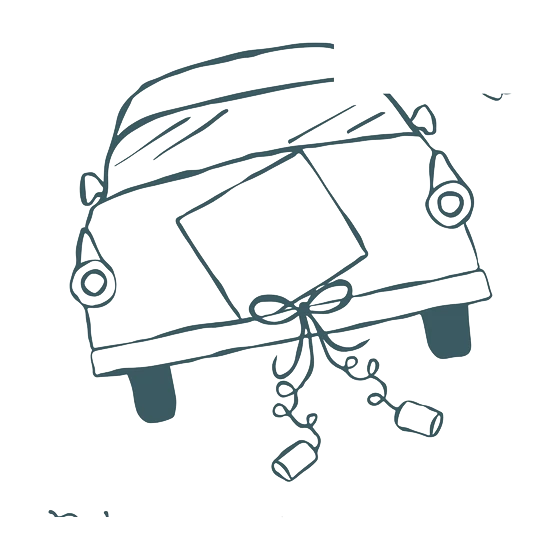
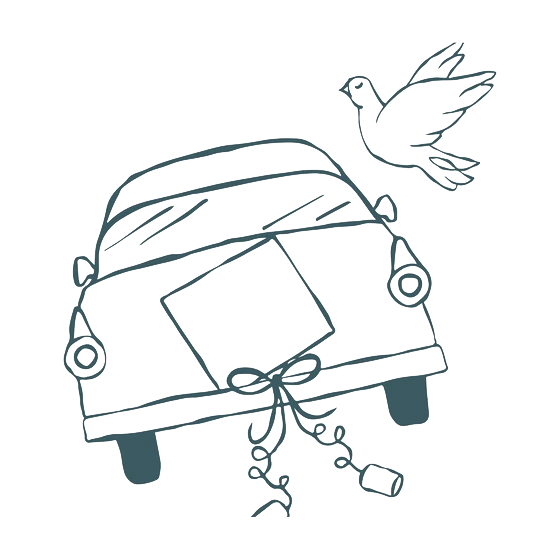
Coche completo con la paloma y reglas de legibilidad tipográfica
- El icono de los autobuses recupera la paloma y el coche entero; solo se borra
  la firma de la lámina que quedaba debajo de las ruedas.
- Todo el contenido de "Datos de Interés" pasa a Italiana: en cursiva y a
  tamaño de tarjeta no había quien lo leyera. Igual el aviso del formulario.
- Suelo de 28px para cualquier texto en cursiva, aplicado a las tres vistas.
  Dos se escapaban del barrido: uno heredaba la familia del contenedor sin
  declararla y otro arrastraba dos clases de tamaño en conflicto.

Changed region(s): [[0.0911, 0.0607, 0.9107, 0.9411], [0.3339, 0.0607, 0.6071, 0.1214], [0.0911, 0.9107, 0.1214, 0.9411]]

diff --git a/app/page.tsx b/app/page.tsx
@@ -681,7 +681,7 @@ export default function Home() {
                       {place.name}
                     </h3>
 
-                    <p className="font-serif text-muted text-[24px] italic mb-6 leading-relaxed text-center">
+                    <p className="font-serif text-muted text-[28px] italic mb-6 leading-relaxed text-center">
                       {place.address}
                     </p>
 
@@ -764,7 +764,7 @@ export default function Home() {
                 </p>
               ) : (
                 <>
-                  <p className="font-serif text-muted text-[26px] leading-none mb-6">{wedding.countdown.lead}</p>
+                  <p className="font-serif text-muted text-[28px] leading-none mb-6">{wedding.countdown.lead}</p>
                   <div className="grid grid-cols-2 sm:grid-cols-4 gap-y-6 gap-x-2">
                     {([
                       ['days', wedding.countdown.labels.days],
@@ -879,7 +879,7 @@ export default function Home() {
                 {wedding.itinerary.title}
               </h2>
               <p
-                className="font-serif text-muted mt-2 italic text-[24px] leading-snug"
+                className="font-serif text-muted mt-2 italic text-[28px] leading-snug"
               >
                 {wedding.itinerary.subtitle}
               </p>
@@ -987,7 +987,7 @@ export default function Home() {
                   {wedding.music.title}
                 </h3>
 
-                <p className="text-muted text-[15px] italic leading-relaxed max-w-lg mx-auto mb-10">
+                <p className="font-serif text-muted text-[28px] italic leading-relaxed max-w-lg mx-auto mb-10">
                   {wedding.music.description}
                 </p>
 
@@ -1090,7 +1090,7 @@ export default function Home() {
                   hidden: { opacity: 0, y: 20 },
                   visible: { opacity: 1, y: 0, transition: { duration: 0.8 } }
                 }}
-                className="font-serif text-[26px] text-white/95 italic leading-relaxed max-w-xl mx-auto mb-2"
+                className="font-serif text-[28px] text-white/95 italic leading-relaxed max-w-xl mx-auto mb-2"
               >
                 {wedding.gift.description}
               </motion.p>
@@ -1100,7 +1100,7 @@ export default function Home() {
                   hidden: { opacity: 0, y: 20 },
                   visible: { opacity: 1, y: 0, transition: { duration: 0.8 } }
                 }}
-                className="font-serif text-[26px] text-white leading-relaxed max-w-lg mx-auto mb-1"
+                className="font-serif text-[28px] text-white leading-relaxed max-w-lg mx-auto mb-1"
               >
                 {wedding.gift.invitation}
               </motion.p>
@@ -1139,7 +1139,7 @@ export default function Home() {
                 }}
                 className="flex flex-col items-center gap-2"
               >
-                <p className="font-serif text-white/75 text-[24px] italic">
+                <p className="font-serif text-white/75 text-[28px] italic">
                   {wedding.gift.ctaHint}
                 </p>
                 <button
@@ -1218,7 +1218,7 @@ export default function Home() {
                   hidden: { opacity: 0, y: 20 },
                   visible: { opacity: 1, y: 0, transition: { duration: 0.8 } }
                 }}
-                className="font-serif text-[24px] md:text-[26px] text-muted leading-relaxed max-w-md mx-auto"
+                className="font-display text-[17px] md:text-[18px] text-muted leading-relaxed max-w-md mx-auto"
               >
                 Para poder organizar con cariño y detalle este día, por favor, agradeceríamos que rellenarais este formulario antes del <strong className="text-ink">{wedding.rsvp.deadline}</strong>, gracias.
               </motion.p>
@@ -1295,10 +1295,10 @@ export default function Home() {
                         <Image src={card.image} alt="" fill className="object-contain object-left" referrerPolicy="no-referrer" />
                       </div>
                     )}
-                    <h4 className="text-[17px] text-white font-medium mb-3" style={{ fontFamily: 'var(--font-display)' }}>
+                    <h4 className="font-display text-[19px] text-white font-semibold mb-3 tracking-wide">
                       {card.title}
                     </h4>
-                    <p className="font-serif text-[22px] text-white/90 leading-snug">
+                    <p className="font-display text-[17px] text-white/95 leading-relaxed">
                       {card.body}
                       {card.bullets.map((bullet, i) => (
                         <span key={i} className={`block font-semibold ${i === 0 ? 'mt-2' : 'mt-1.5'}`}>
@@ -1357,7 +1357,7 @@ export default function Home() {
                 hidden: { opacity: 0, y: 30 },
                 visible: { opacity: 1, y: 0, transition: { duration: 0.8, ease: "easeOut" } }
               }}
-              className="font-serif text-[26px] text-muted leading-relaxed mb-10 max-w-md mx-auto"
+              className="font-serif text-[28px] text-muted leading-relaxed mb-10 max-w-md mx-auto"
             >
               {wedding.contact.description}
             </motion.p>

diff --git a/components/RSVPForm.tsx b/components/RSVPForm.tsx
@@ -352,7 +352,7 @@ export default function RSVPForm({ onSubmitted, onEdit, rsvpData, formSubmitted 
           >
             <div className="text-center">
               <p className="font-serif text-[31px] text-ink mb-1">¿Podrás acompañarnos?</p>
-              <p className="font-serif text-[22px] text-muted">
+              <p className="font-serif text-[28px] text-muted">
                 Por favor, confirma tu asistencia antes del {wedding.rsvp.deadline}
               </p>
             </div>
@@ -386,8 +386,8 @@ export default function RSVPForm({ onSubmitted, onEdit, rsvpData, formSubmitted 
             className="space-y-5"
           >
             <div className="text-center mb-2">
-              <p className="font-serif text-[27px] text-ink">Gracias por avisarnos</p>
-              <p className="font-serif text-[22px] text-muted mt-1">
+              <p className="font-serif text-[28px] text-ink">Gracias por avisarnos</p>
+              <p className="font-serif text-[28px] text-muted mt-1">
                 Lamentamos que no puedas estar con nosotros
               </p>
             </div>
@@ -472,7 +472,7 @@ export default function RSVPForm({ onSubmitted, onEdit, rsvpData, formSubmitted 
               <p className="text-[10px] font-display text-muted/70 text-center mb-4 font-semibold">(si procede)</p>
               <div className="flex items-start gap-2 bg-sand/60 border border-primary/10 rounded px-3 py-2.5 mb-5">
                 <Info size={13} className="text-muted mt-0.5 shrink-0" />
-                <p className="font-serif text-[20px] text-[11px] text-muted">
+                <p className="font-serif text-[28px] text-muted">
                   Los niños no están invitados al evento
                 </p>
               </div>
